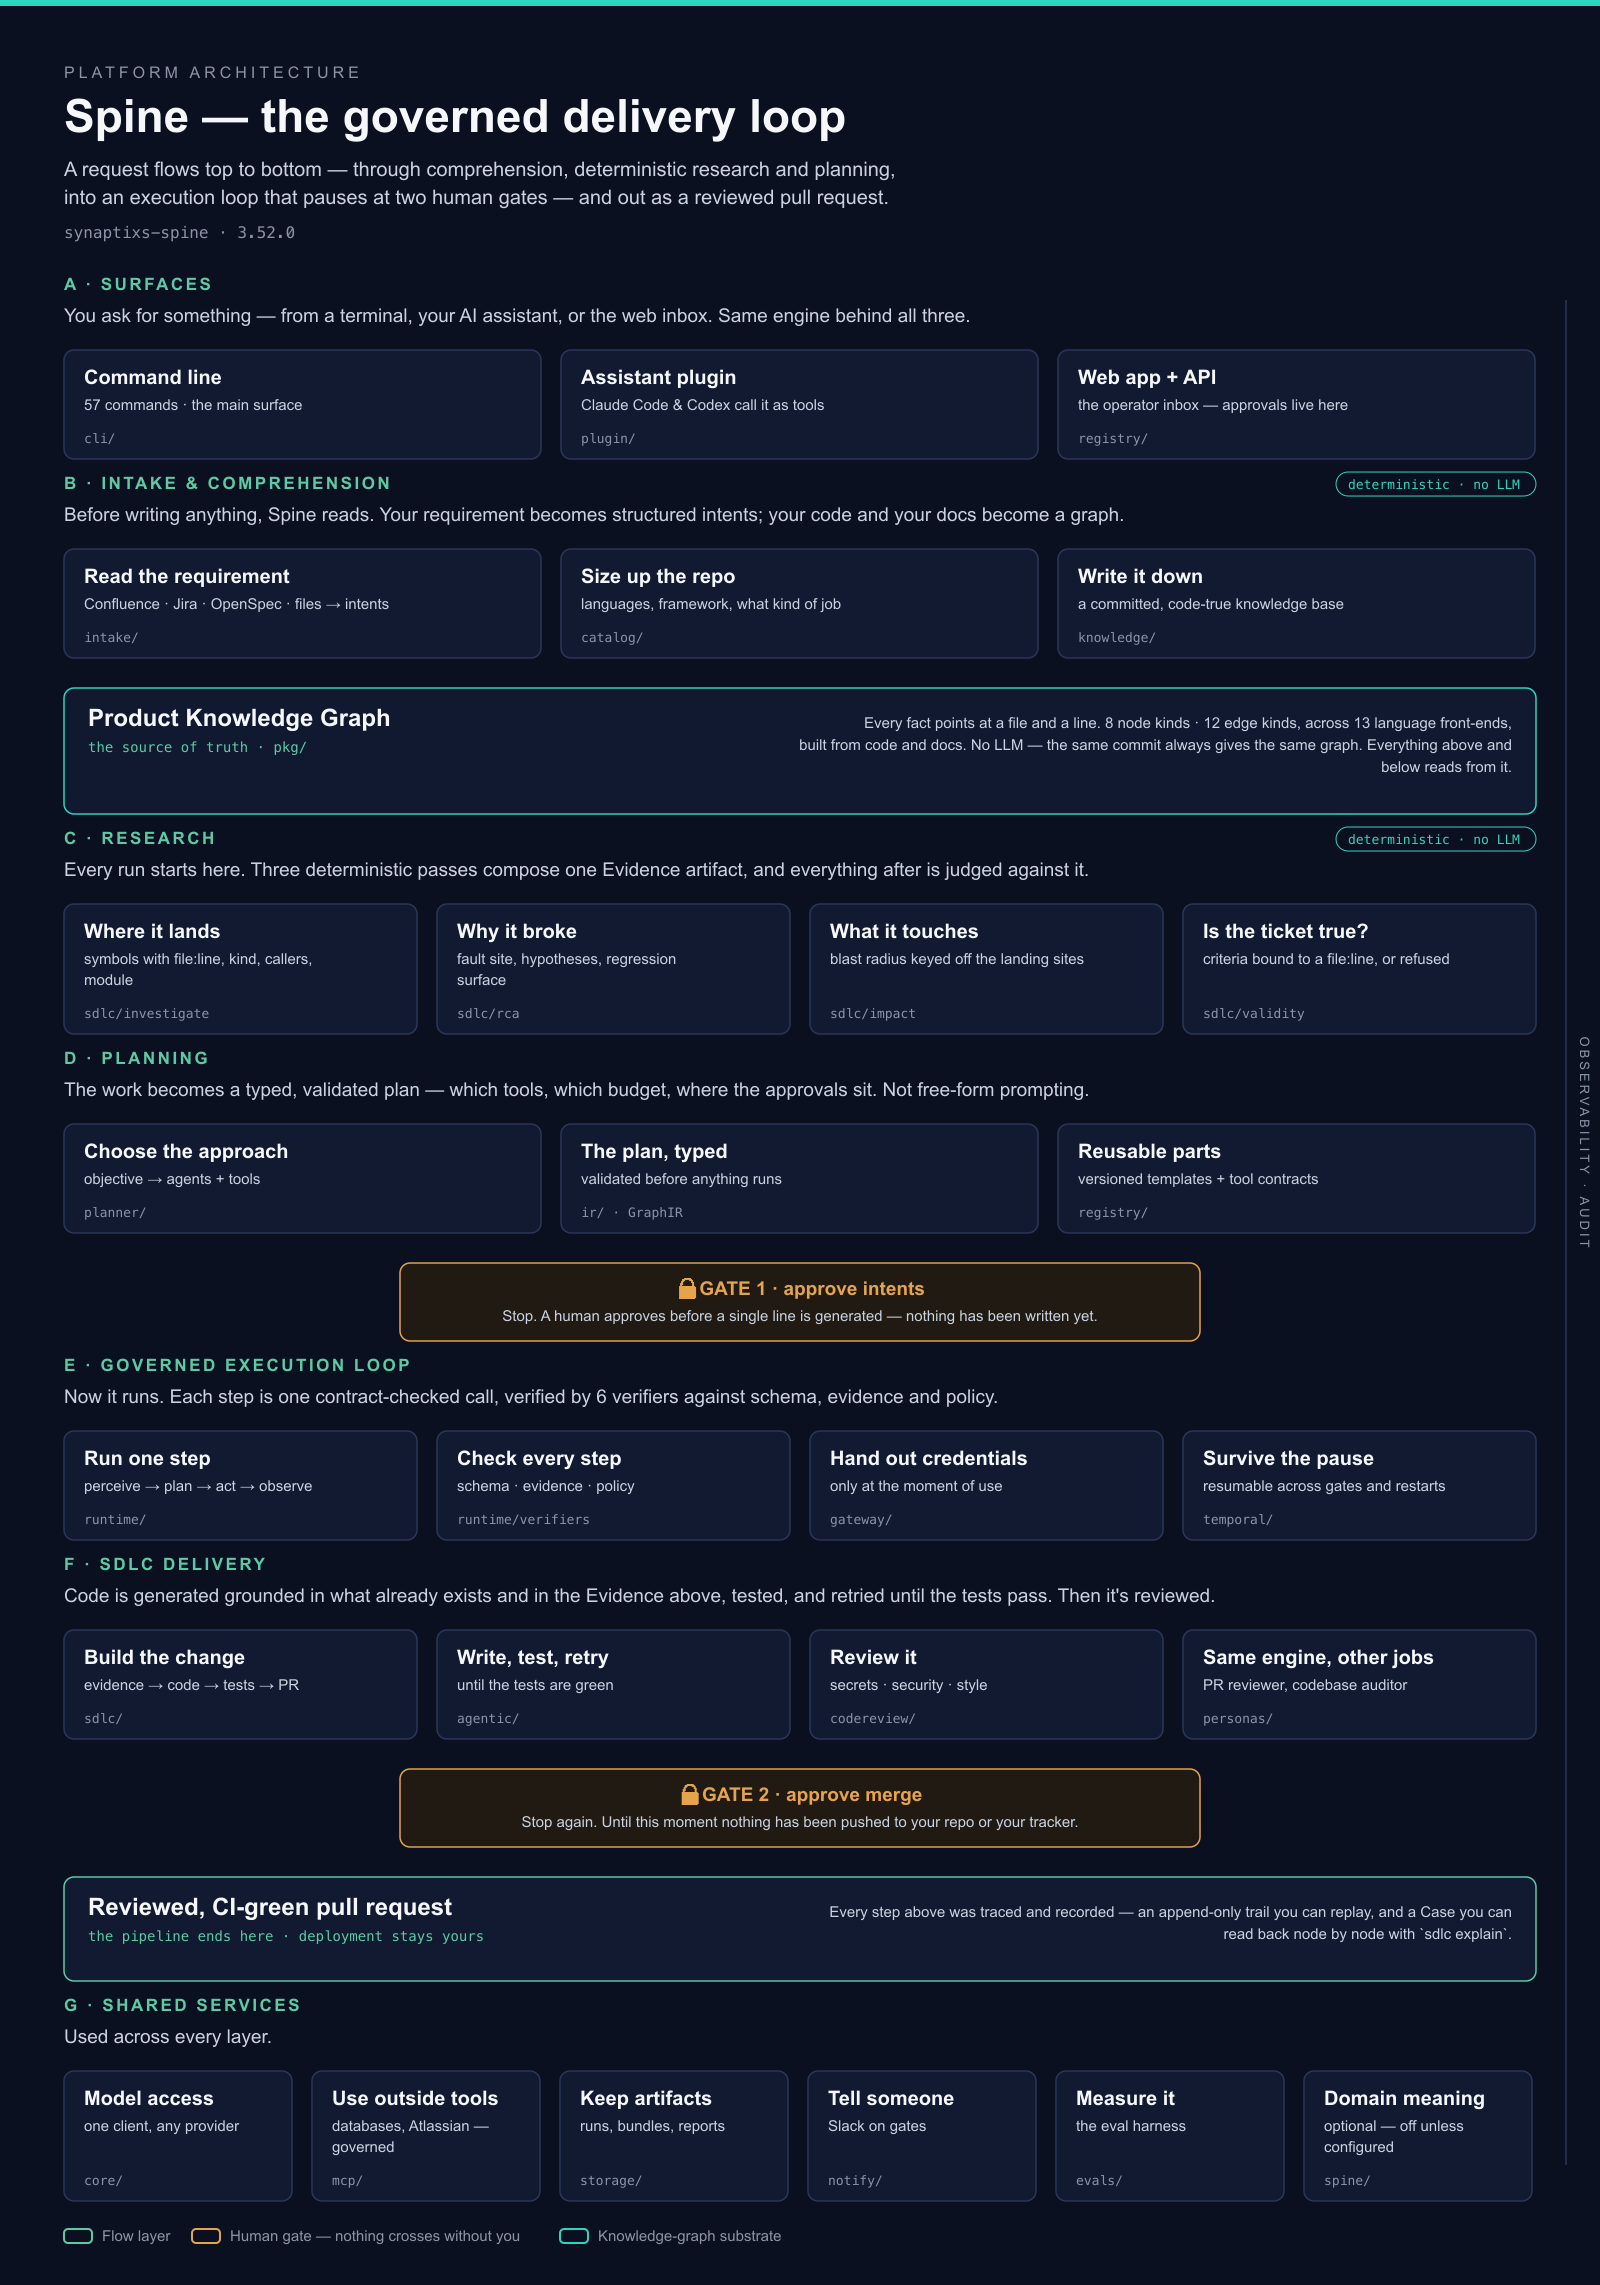
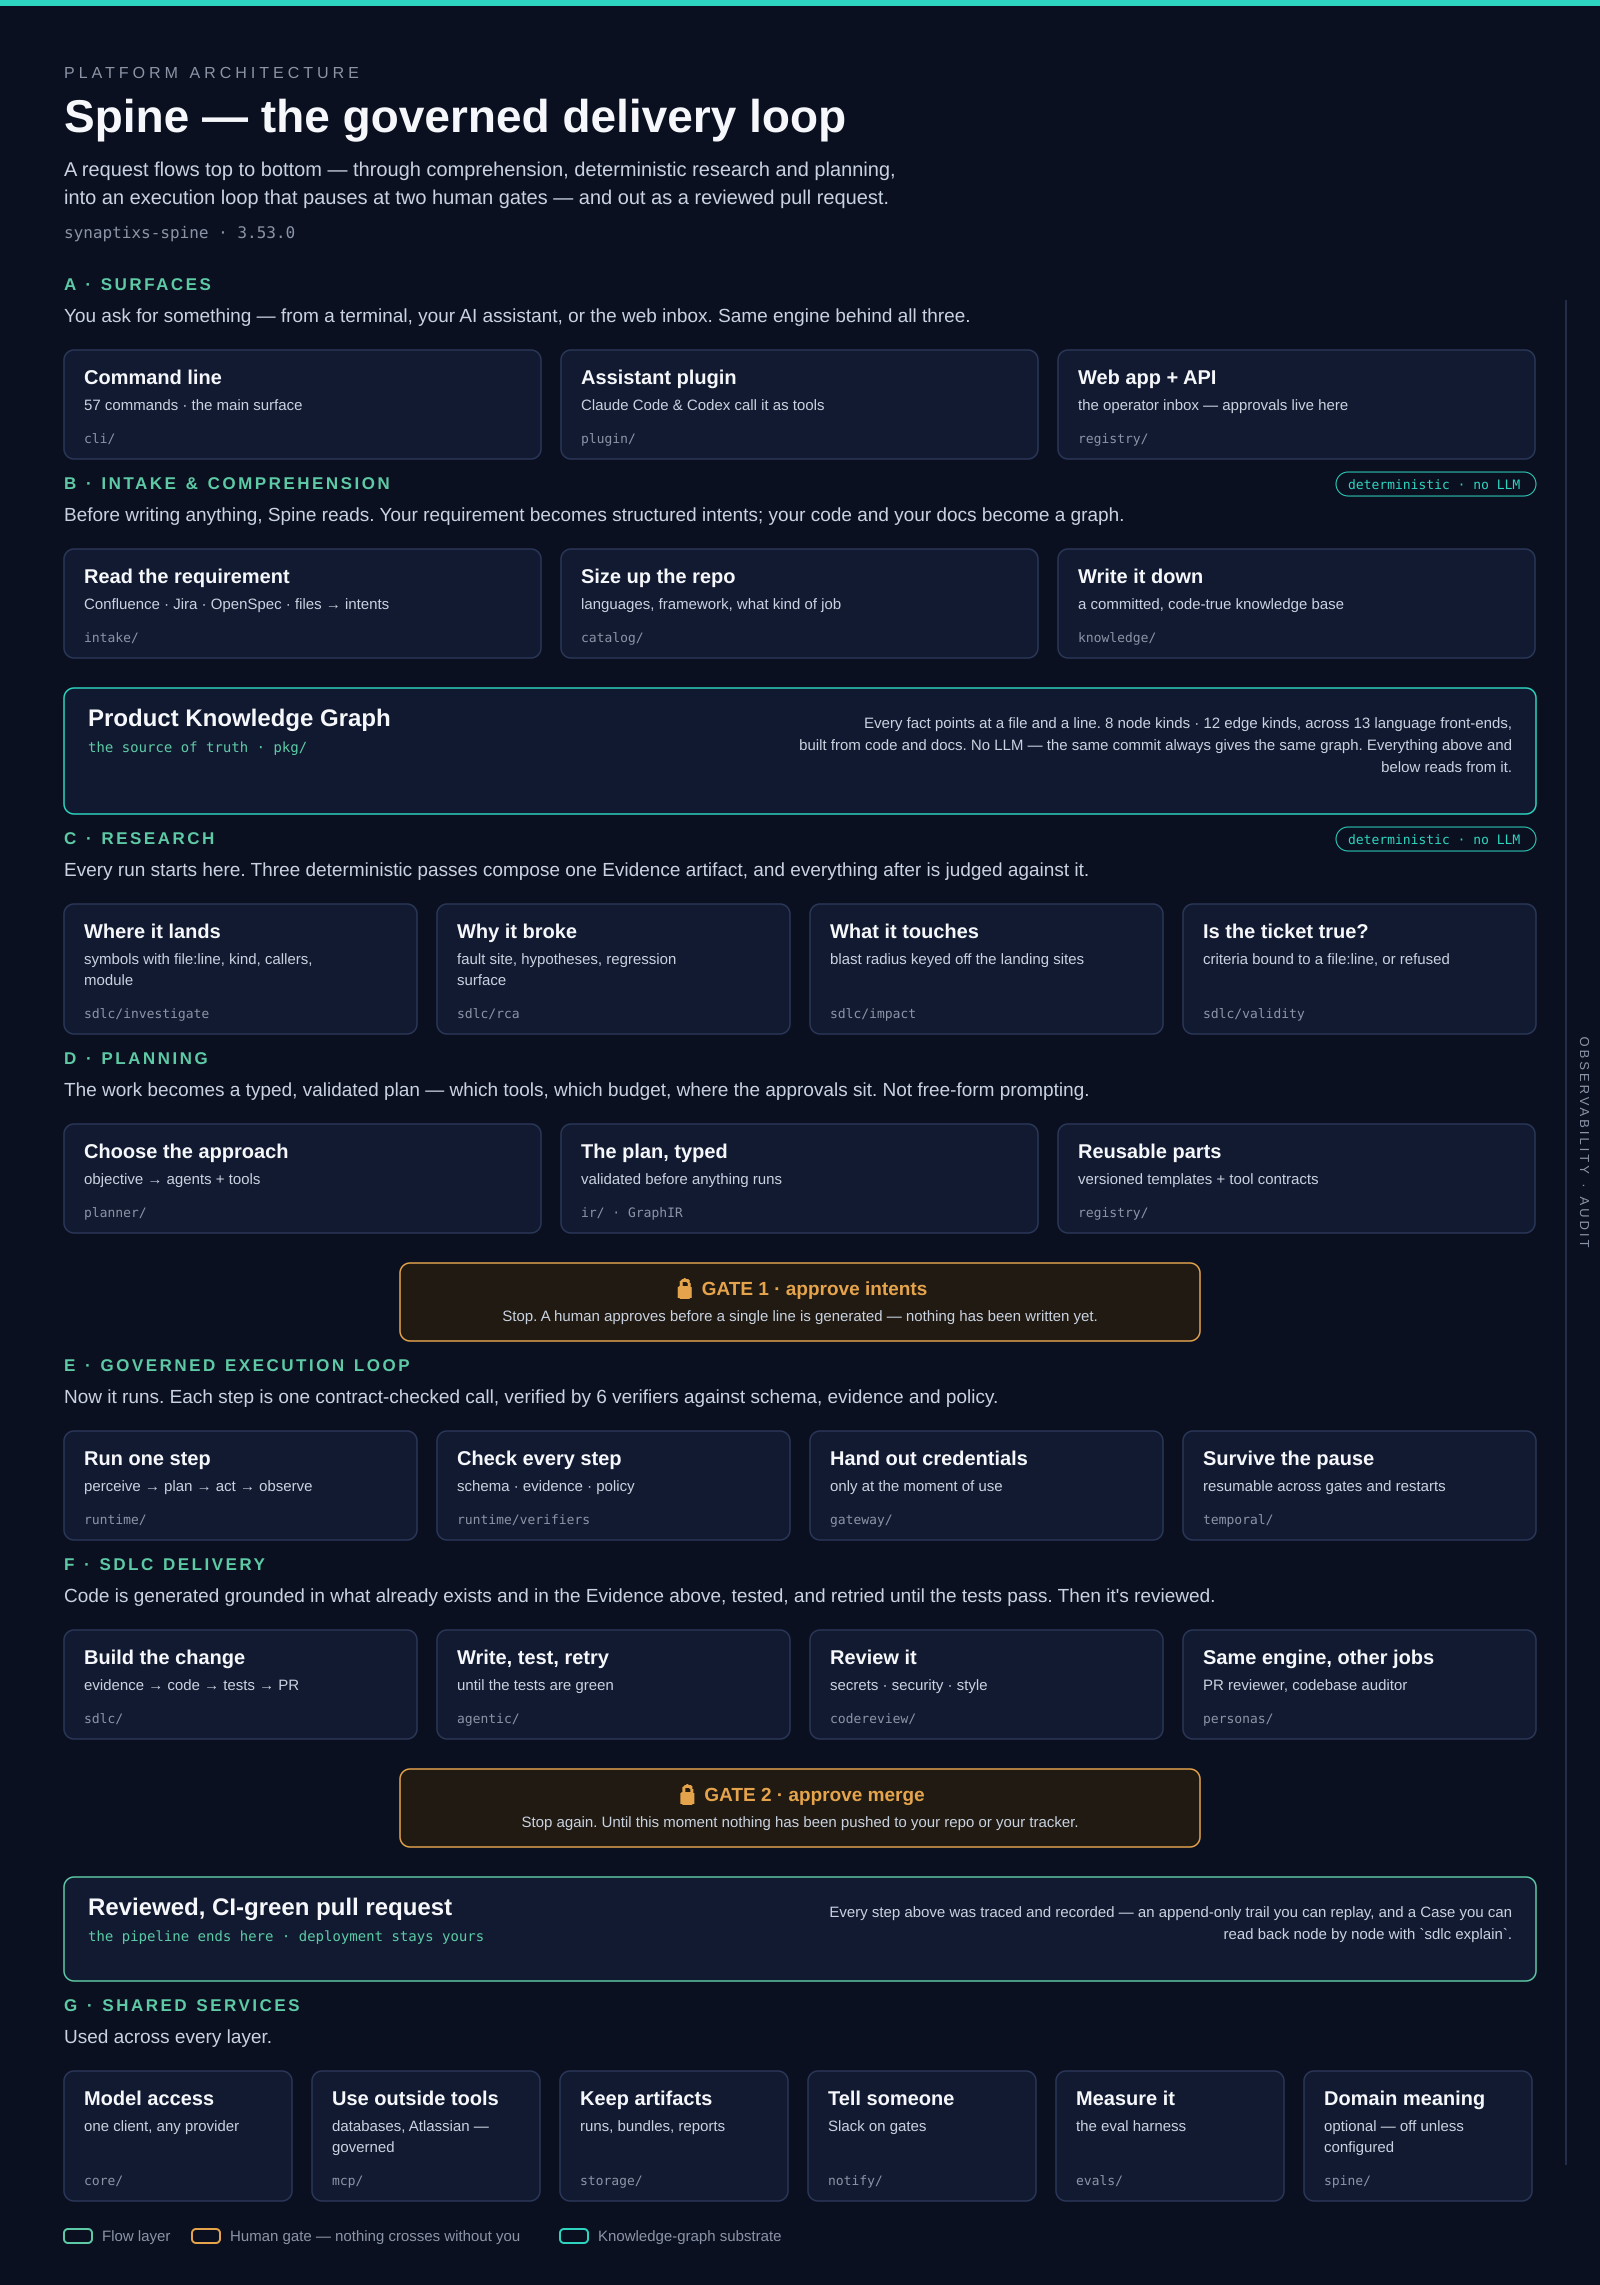
chore(release): cut 3.53.0
Minor: Python's call graph reaches through a typed variable — a parameter
annotation, a local assigned once from a constructor, or a self.attr typed
by a class annotation now gives a method a caller (B35, SSPN-48; +2,077
CALLS edges on this repo, precision held at 1.00). A locked pyjwt closes
ten published advisories (B55, SSPN-115). Concurrent sdlc features on one
worker no longer switch each other's codegen guards off (B49, SSPN-95).
Corpus relabelling fixes two wrong Python edges (B53, SSPN-113).

Upgrade notes in CHANGELOG: a plan grounded in a method that gained
callers reads as changed and needs approving again.

Stamps pyproject + the lockfile's own entry, the three plugin manifests,
the reusable-workflow tags, CHANGELOG (Unreleased -> 3.53.0), README
"What's new", CLI_REFERENCE, STATE-OF-SPINE, and the re-rendered
architecture + knowledge-foundation SVG/PNG.

Claude-Session: https://claude.ai/code/session_01Nf4uASVRjGR2Jw47hh6pbT

diff --git a/docs/specs/STATE-OF-SPINE.md b/docs/specs/STATE-OF-SPINE.md
@@ -1,6 +1,6 @@
-# State of Spine — 3.52.0
+# State of Spine — 3.53.0
 
-**The one document to read.** Verified against source on **2026-09-27**, at the 3.52.0 release
+**The one document to read.** Verified against source on **2026-10-04**, at the 3.53.0 release
 cut. Every gated number below was re-measured that day (`scripts/state-numbers.py --check`).
 
 > **Why this exists.** `docs/specs/` holds **91** markdown files — **87 specs** plus this
@@ -24,7 +24,7 @@ gates (before building, before merging). The product is **Spine**; it ships as
 
 | | Value | How it is known |
 |---|---|---|
-| Version | **3.52.0** | cutting now; 3.51.1 is the last on PyPI. **Minor** — docs join the blast radius: `blast_radius`/`explain_symbol`/`docs_for` list the repository's doc sections naming a symbol, plus Confluence, Jira and any RAG server's chunks pulled over MCP (`mcp ingest-docs`, `docs:` in `.spine/repos.yaml`); `${VAR}` in `mcp.json` headers/url; codegen stays in the ticket's scope (#490) and refine may fix lint in tests it wrote (#491). Plans whose ticket names a module need approving again |
+| Version | **3.53.0** | cutting now; 3.52.0 is the last on PyPI. **Minor** — Python's call graph reaches through a typed variable: a parameter annotation, a once-assigned local or a class-annotated `self.attr` now gives a method a caller (+2,077 `CALLS` edges on this repo, B35/SSPN-48); a locked `pyjwt` closes ten advisories (B55/SSPN-115); concurrent `sdlc` features on one worker no longer clobber each other's codegen guards (B49/SSPN-95); corpus relabelling fixes two wrong Python edges (B53/SSPN-113). Plans grounded in a method that gained callers need approving again |
 | Languages extracted | **12** languages (**13** front-ends) | Python, Java, TypeScript, JavaScript, C#, C, C++, Go, PHP, Perl, Kotlin, SQL, plus a **Gradle** reader that turns `.kts` build scripts into a module dependency graph rather than parsing them as source (D11) — Perl has comprehension + `CALLS` + routes + data layer (all six phases of [perl-support-roadmap.md](perl-support-roadmap.md)); Kotlin is at P0–P11 (all phases) of [kotlin-support-roadmap.md](kotlin-support-roadmap.md) (comprehension, `CALLS`, Room entities + DAO data edges, Retrofit calls as cross-repo `CONSUMES` candidates, Compose navigation as `NAV` endpoints, Hilt/Dagger wiring through the new `PROVIDES` edge, a Gradle `.kts` module graph that gives `state` real components instead of package-name prefixes, and Ktor + Spring MVC server routes that make a Kotlin service a **provider** — the Spring half is shared with the Java front-end, which had read JAX-RS only, Multiplatform source sets with `expect`/`actual` ids joined by `IMPLEMENTS`, and **Kotlin/JVM codegen** on Gradle — whose runner also gives *Java* codegen its first Gradle support) |
 | Perl codegen progress | **C-0 through C-5 DONE** | [Roadmap](perl-codegen-roadmap.md): dispatch mutation detection **4/8 → 8/8**, 0 skipped mutations; `--language perl` enabled with real green/red runner proof; greenfield live proof passes 81 assertions from a clean checkout; brownfield clean-checkout proof passes 4,192 tests, with 116 regression gaps unchanged |
 | PHP delivery | Composer or pinned PHPUnit PHAR | Configured test layout, changed-file lint, modern PHPUnit; [validation roadmap](php-codegen-roadmap.md) |

diff --git a/README.md b/README.md
@@ -78,7 +78,16 @@ and [five-repository evaluation](https://github.com/synaptixs/spine/blob/main/do
 
 ## What's new
 
-**3.52.0 (current)** — docs in the blast radius, and codegen that stays in scope.
+**3.53.0 (current)** — Python's call graph reaches through a typed variable, and a locked
+`pyjwt` closes ten published advisories. A parameter annotation, a local assigned once from a
+constructor, or a `self.attr` typed by a class annotation now gives a method a caller in the
+graph (`blast_radius`, `impact_of`, `docs_for` and codegen's `refine` all see it): +2,077
+`CALLS` edges on this repository, precision held at 1.00 with a decoy-backed corpus case.
+Concurrent `sdlc` features on one worker no longer switch each other's codegen guards off.
+**Upgrade notes:** a plan grounded in a method that gained callers can read as changed —
+re-approve it; `pyjwt` moves to 2.15.1 (ten advisories against the old pin).
+
+**3.52.0** — docs in the blast radius, and codegen that stays in scope.
 `blast_radius`, `explain_symbol` and `docs_for` list the doc sections that describe a symbol: the
 repository's own, plus Confluence and Jira pages and any RAG system's chunks pulled over MCP
 (`orchestrator mcp ingest-docs`, a `docs:` block in `.spine/repos.yaml`). `${VAR}` in `mcp.json`

diff --git a/CHANGELOG.md b/CHANGELOG.md
@@ -4,7 +4,10 @@ All notable changes to this project are documented here. Format loosely follows
 [Keep a Changelog](https://keepachangelog.com/); the package is `synaptixs-spine`
 (import/CLI stay `orchestrator`).
 
-## Unreleased
+## 3.53.0 — 2026-10-04
+
+Python's call graph now reaches through a typed variable, and a locked `pyjwt` closes ten
+published advisories.
 
 ### Fixed
 

diff --git a/CLI_REFERENCE.md b/CLI_REFERENCE.md
@@ -44,7 +44,7 @@ Set up your environment and run the platform.
 Prints the installed version **and the path it is running from**:
 
 ```
-Spine 3.52.0  (synaptixs-spine)
+Spine 3.53.0  (synaptixs-spine)
   running from /path/to/site-packages/orchestrator
 ```
 
